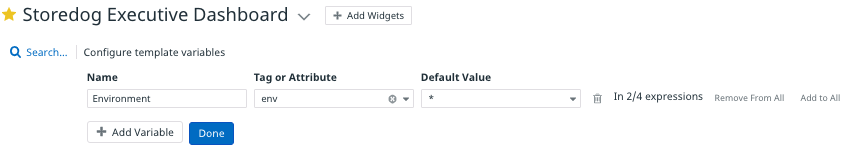
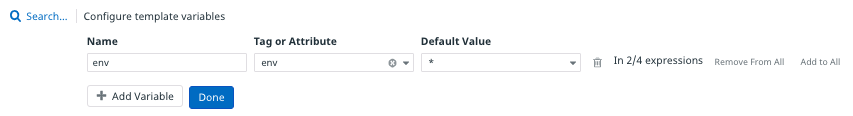
😻

diff --git a/datadog-201/1-exec-dash/1-preset-widgets.md b/datadog-201/1-exec-dash/1-preset-widgets.md
@@ -1,8 +1,8 @@
 ### Executive Dashboard Requirements
-The Storedog CEO want's a single dashboard that they can glance at to get a solid view of the business KPIs. They want to see a mixture of revenue, user experience, and systems metrics. Specifically:
+The Storedog CEO want's a single dashboard that they can glance at to get a solid view of the business Key Performance Indicators (KPIs). They want to see a mixture of revenue, user experience, and systems metrics. Specifically:
 
   - Average revenue by minute, with some indicator of the $12-$14/minute "sweetspot"
-  - An indication of a Service Level Objective of 99% checkout success
+  - A summary of a Service Level Objective: 99% checkout flow success
   - Frontend performance metrics for the most popular Storedog pages
   - Where visitors are coming from in the world
   - Indication that all service containers are up and running 
@@ -20,7 +20,7 @@ Aside from the Storedog-specific revenue graph and checkout SLO, most of these a
 1. Create a new dashboard by clicking on **Dashboards > New Dashboard** in the global navigation.
 1. Name your new dashboard "Storedog Executive Dashboard" and click **New Dashboard**.
 1. Click the **star icon** to the left of the dashboard title. This will add the dashboard to your Favorites list for quick access. ![Starred dashboard in Favorites list](./assets/starred_dashboard_favorites.png)
-1. Find the RUM Performance preset dashboard by clicking on **Dashboards > Dashboard List** and typing "rum perf". Click on the dashboard **Rum - Performance Overview**. If you don't see any data in the graph widgets, visit Storedog by clicking on the **Storedog** tab above the terminal to the right. Click around to generate some RUM metrics.
+1. Find the RUM Performance preset dashboard by clicking on **Dashboards > Dashboard List** and typing "rum perf" in the search field . Click on the dashboard **Rum - Performance Overview**. If you don't see any data in the graph widgets, visit Storedog by clicking on the **Storedog** tab above the terminal to the right. Click around to generate some RUM metrics.
 1. Midway down the left side of the dashboard you will find the **Most viewed pages** section containing a table labeled **Performance overview of most popular pages**. This fits the bill for the frontend performance requirement. Click this widget and type CTRL+C (PC) or CMD+C (Mac). This will copy the widget into your Datadog Clipboard. 
 
    The first time you do this you will see a dialog telling you a little bit about this handy feature. ![Widget copied info modal](./assets/widget_copied_modal.png)
@@ -36,7 +36,7 @@ Aside from the Storedog-specific revenue graph and checkout SLO, most of these a
 ### Add Preset Widgets
 Your clipboard should look something like this: ![Clipboard with preset widgets](./assets/clipboard_with_widgets.png)
 
-You could paste these individually or as a group into the executive dashboard, but there's a shortcut in the clipboard. Click **Select All** and then click the **Add 4 Selected Item To...** dropdown.
+You could paste these individually or as a group into the executive dashboard, but there's a shortcut in the clipboard. Click **Select All** and then click the **Add 4 Selected Items To...** dropdown.
 
 Select **Storedog Executive Dashboard**. A notification will appear at the top of the window confirming your action: ![Added to dashboard confirmation](./assets/added_to_dash_confirmation.png)
 

diff --git a/datadog-201/1-exec-dash/2-template-variables-global-time.md b/datadog-201/1-exec-dash/2-template-variables-global-time.md
@@ -9,7 +9,7 @@ Click the **Save** button.
 
 Just under the dashboard title, click **Add Template Variables**. For **Name**, enter "env".
 
-For **Tag or Attribute**, enter "env" again.  ![Creating env template var](./assets/setting_env_template_var.png)
+For **Tag or Attribute**, start typing "env" and then select **env** from the filtered list of tags.  ![Creating env template var](./assets/setting_env_template_var.png)
 
 Click the **Done** button.
 
